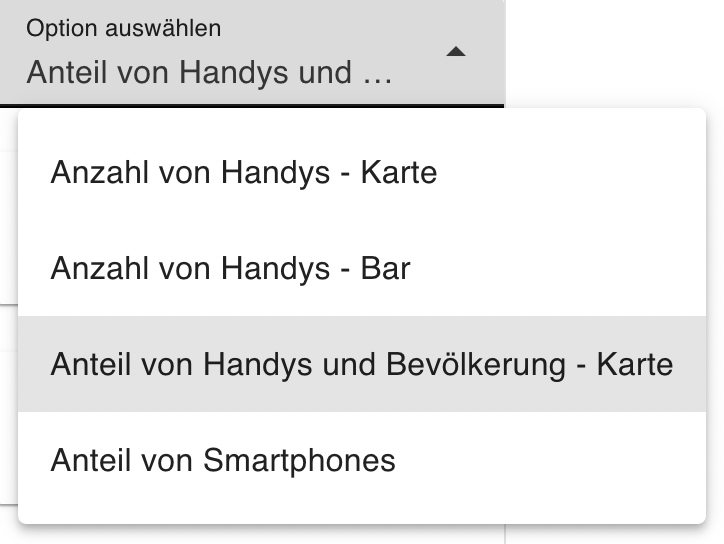
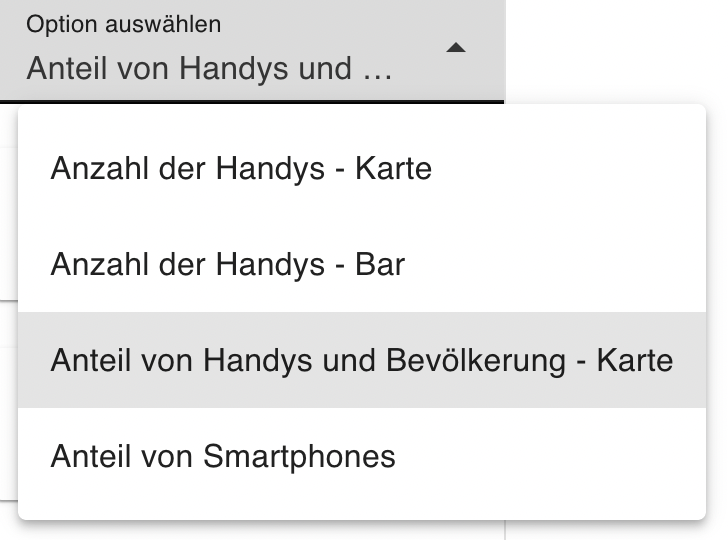
update naming

diff --git a/src/App.vue b/src/App.vue
@@ -90,8 +90,8 @@ export default defineComponent({
     }
 
     const optionVariants = ref<{title: string, payload: ISelectValueType}[]>([
-      {title: 'Anzahl von Handys - Karte', payload: {option: {type: ChartTypeEnum.Map, value: getMapCountOption()}, cardType: 'countCards'}},
-      {title: 'Anzahl von Handys - Bar', payload: {option: {type: ChartTypeEnum.Bar, value: getBarOption()}, cardType: 'countCards'}},
+      {title: 'Anzahl der Handys - Karte', payload: {option: {type: ChartTypeEnum.Map, value: getMapCountOption()}, cardType: 'countCards'}},
+      {title: 'Anzahl der Handys - Bar', payload: {option: {type: ChartTypeEnum.Bar, value: getBarOption()}, cardType: 'countCards'}},
       {title: 'Anteil von Handys und Bevölkerung - Karte', payload: {option: {type: ChartTypeEnum.Map, value: getMapProportionOption()}, cardType: 'humanProportionCards'}},
       {title: 'Anteil von Smartphones', payload: {option: {type: ChartTypeEnum.Bar, value: getBarSmartphonesOption()}, cardType: 'smartphonesProportionCards'}}
     ])

diff --git a/src/helpers/DataHelper.ts b/src/helpers/DataHelper.ts
@@ -17,8 +17,8 @@ const getChartData = (key: keyof typeof chartTypes): IData[] => {
     return chartTypes[key] as IData[]
 }
 
-const textCount: string = 'Anzahl von Handys nach Ländern (2017/2018)'
-const textProportion: string = 'Anzahl von Handys pro 100 Personen (2017/2018)'
+const textCount: string = 'Anzahl der Handys nach Ländern (2017/2018)'
+const textProportion: string = 'Anzahl der Handys pro 100 Personen (2017/2018)'
 const textSmartphonesProportion: string = 'Anteil von Smartphones (50 Länder)'
 
 const tooltip: {trigger: string, showDelay?: number, transitionDuration?: 0.2} = {
